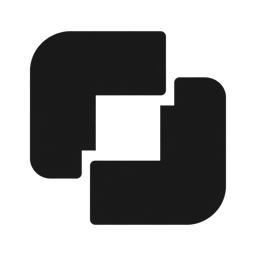
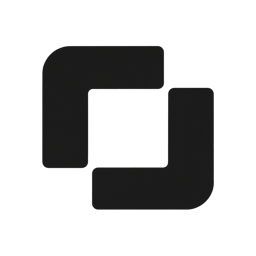
Refine NullProtocol mark proportions

Changed region(s): [[0.0938, 0.0938, 0.9062, 0.9062]]

diff --git a/assets/LOGO.md b/assets/LOGO.md
@@ -2,6 +2,10 @@
 
 Generated with the built-in imagegen tool. The transparent PNG is `nullprotocol.png`. The same mark is used on the NullProtocol website.
 
-## Prompt
+## Refinement prompt
+
+Use case: precise-object-edit / logo-brand. Edit the provided NullProtocol symbol, preserving its identity: TWO opposing interlocking black bracket forms surrounding an empty center, same orientation and compact square silhouette. Refine this exact concept to feel more elegant and precise. Reduce the heavy stroke weight by about 30 percent, enlarge the inner negative space, and make the gap between the two separate elements clear and optically even. Replace the bulky outer curves with restrained consistent small corner radii; soften the inner corners equally. Remove the tiny awkward stair-step notches in the central void: clean smooth geometric contours, no extra protrusions. Balanced optical weight, two equally weighted elements related by 180-degree rotation. This must be a practical confident developer brand mark readable at 24 pixels, not a delicate hairline icon. One uniform flat near-black #191919 fill, absolutely no gradient or shading. Keep transparent background and comparable centered size/margins. No text, no added shapes, no badge, no mockup, no shadows. ONE finished standalone transparent PNG symbol.
+
+## Original prompt
 
 Use case: logo-brand. Create ONE finished original symbol for NullProtocol, a free developer library for AI agents. Asset: standalone website brand mark and favicon, not a presentation or mockup. Bold black #191919 flat silhouette on a genuinely transparent background. Two opposing substantial interlocking bracket-like forms surround a small clear empty square at the center. A distinctive compact asymmetric silhouette: precise architectural geometry, subtly softened outer corners, balanced optical weight, intentional negative space, mature independent software identity. The negative center suggests null; the two forms suggest agents connecting. It must remain exceptionally legible at 24px. Square composition, mark centered occupying 85% of image width and height with equal narrow transparent margins. Exactly one symbol, no text, no wordmark, no letters, no panel, no enclosing rounded-square tile, no circle badge, no sparks, no stars, no arrows, no brain, no robot, no gradients, no shadow, no texture, no 3D. Clean sharp vector-like edges. Output 1024x1024 PNG with alpha transparency.
